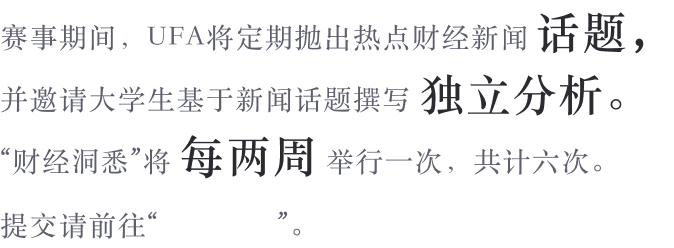
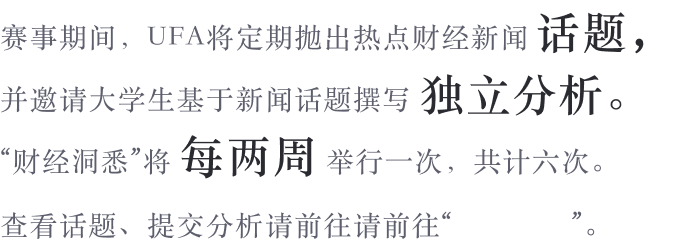
文案调整

Changed region(s): [[0.0, 0.8468, 0.6855, 0.9597], [0.8724, 0.9315, 0.9036, 0.9597], [0.8412, 0.8468, 0.8724, 0.875]]

diff --git a/src/components/Tournament/rules.jsx b/src/components/Tournament/rules.jsx
@@ -4,7 +4,7 @@ import { React, useState, useEffect } from "react";
 import useWindowDimensions from "../../utils/sizewindow";
 import RulesModal from "../screen/modal/RulesModal";
 
-const Rules = ({changeEventKey}) => {
+const Rules = ({ changeEventKey }) => {
   const { width, height } = useWindowDimensions();
   const [current, setCurrent] = useState(0);
   const [showModal, setShowModal] = useState(false);
@@ -24,7 +24,7 @@ const Rules = ({changeEventKey}) => {
       setbodyscrollTop(
         document.documentElement.scrollTop || document.body.scrollTop
       );
-      console.log("屏幕向下距离",bodyscrollrdTop)
+      console.log("屏幕向下距离", bodyscrollrdTop);
     };
 
     window.addEventListener("scroll", handleScroll, { passive: true });
@@ -109,12 +109,12 @@ const Rules = ({changeEventKey}) => {
               <div className="rules-centent">
                 赛事报名成功后，个人/团队参赛者将在“交易平台”获得一份赛事账户，所有操作均在“{" "}
                 <a href="/competition">
-                <span
-                  style={{ color: "blue", cursor: "pointer" }}
-                  className="button-hover"
-                >
-                  交易平台
-                </span>
+                  <span
+                    style={{ color: "blue", cursor: "pointer" }}
+                    className="button-hover"
+                  >
+                    交易平台
+                  </span>
                 </a>
                 ”完成。
               </div>
@@ -156,7 +156,7 @@ const Rules = ({changeEventKey}) => {
           </div>
           <div className="rules-top-30">
             <div className="rules-centent">
-              参赛个人或团队需在赛事期间提交至少3份研报模块，未交满选手则无法获得初赛入围资格。注：研报模块质量不会被进行评分，且不影响综合分数。详情见上方“
+              赛事期间，UFA将定期发布热点财经新闻话题，并邀请大学生撰写话题分析。投稿者有机会获得“杰出财经大学生”奖，以及金融机构推荐资格。详情见上方“
               <span
                 style={{ color: "blue", cursor: "pointer" }}
                 className="button-hover"
@@ -194,18 +194,18 @@ const Rules = ({changeEventKey}) => {
                     <div className="horizontal-line"></div>
                     {/* <div className="vertical-line"></div> */}
                     <div
-                        style={{
-                          display: "flex",
-                          justifyContent: "center",
-                          alignItems: "center",
-                        }}
+                      style={{
+                        display: "flex",
+                        justifyContent: "center",
+                        alignItems: "center",
+                      }}
                     >
                       <div
-                          style={{
-                            height: "48px",
-                            background: "rgb(229, 232, 238)",
-                            width: "1px",
-                          }}
+                        style={{
+                          height: "48px",
+                          background: "rgb(229, 232, 238)",
+                          width: "1px",
+                        }}
                       ></div>
                     </div>
                   </div>
@@ -271,18 +271,18 @@ const Rules = ({changeEventKey}) => {
                     <div className="horizontal-line"></div>
                     {/* <div className="vertical-line"></div> */}
                     <div
-                        style={{
-                          display: "flex",
-                          justifyContent: "center",
-                          alignItems: "center",
-                        }}
+                      style={{
+                        display: "flex",
+                        justifyContent: "center",
+                        alignItems: "center",
+                      }}
                     >
                       <div
-                          style={{
-                            height: "48px",
-                            background: "rgb(229, 232, 238)",
-                            width: "1px",
-                          }}
+                        style={{
+                          height: "48px",
+                          background: "rgb(229, 232, 238)",
+                          width: "1px",
+                        }}
                       ></div>
                     </div>
                   </div>
@@ -342,18 +342,18 @@ const Rules = ({changeEventKey}) => {
                     <div className="horizontal-line"></div>
                     {/* <div className="vertical-line"></div> */}
                     <div
-                        style={{
-                          display: "flex",
-                          justifyContent: "center",
-                          alignItems: "center",
-                        }}
+                      style={{
+                        display: "flex",
+                        justifyContent: "center",
+                        alignItems: "center",
+                      }}
                     >
                       <div
-                          style={{
-                            height: "48px",
-                            background: "rgb(229, 232, 238)",
-                            width: "1px",
-                          }}
+                        style={{
+                          height: "48px",
+                          background: "rgb(229, 232, 238)",
+                          width: "1px",
+                        }}
                       ></div>
                     </div>
                   </div>

diff --git a/src/components/Tournament/finance.jsx b/src/components/Tournament/finance.jsx
@@ -99,7 +99,7 @@ const Finance = ({ profileImg, hobbyImgs }) => {
                       src="/tournament/赛事账户@2x.png"
                       style={{
                         position: "absolute",
-                        left: "44.7%",
+                        left: "65.6%",
                         top: "70%",
                         width: "8%",
                       }}
@@ -118,7 +118,7 @@ const Finance = ({ profileImg, hobbyImgs }) => {
                       src="/tournament/赛事账户-pad@2x.png"
                       style={{
                         position: "absolute",
-                        left: "44.7%",
+                        left: "65.6%",
                         top: "70%",
                         width: "8%",
                       }}
@@ -132,8 +132,8 @@ const Finance = ({ profileImg, hobbyImgs }) => {
                     style={{
                       width: "100%",
                       height: "100%",
-                      maxHeight: "248px",
-                      maxWidth: "674px",
+                      // maxHeight: "248px",
+                      // maxWidth: "674px",
                       minWidth: "337px",
                       minHeight: "124px",
                     }}
@@ -144,7 +144,7 @@ const Finance = ({ profileImg, hobbyImgs }) => {
                       src="/tournament/赛事账户-phone@2x.png"
                       style={{
                         position: "absolute",
-                        left: "24%",
+                        left:  "67%",
                         top: "85%",
                         width: "17%",
                         maxHeight: "27px",
@@ -165,7 +165,7 @@ const Finance = ({ profileImg, hobbyImgs }) => {
                 style={{
                   display: "flex",
                   justifyContent: "center",
-                  flexDirection: width < 791 ? "column" : "inherit",
+                  flexDirection: width < 800 ? "column" : "inherit",
                 }}
               >
                 <div className="finance-date-div-first">
@@ -295,19 +295,19 @@ const Finance = ({ profileImg, hobbyImgs }) => {
                 className="finance-bottom-text"
                 style={{ paddingTop: "30px" }}
               >
-                在每一次财经新闻话题截止后，UFA组委会会阅览并筛选50个优秀的选手分析，并发布由UFA及中信证券官方签署的优秀证书。
+                在每一次财经新闻话题截止后，UFA组委会会阅览并筛选50个优秀分析，并对其作者颁发“杰出财经大学生”的荣誉证书；
               </div>
               <div
                 className="finance-bottom-text"
                 style={{ paddingTop: "20px" }}
               >
-                对于部分优秀分析，UFA会对选手做独家采访，并将其分析及选手采访刊登在UFA官网以及UFA公众号【UFA视野全球】。
+                对于部分优秀分析，UFA会对其作者进行独家采访并刊登在UFA公众号【UFA全球青年汇】。
               </div>
               <div
                 className="finance-bottom-text"
                 style={{ paddingTop: "20px" }}
               >
-                同时，UFA每周会将优秀选手向多个金融机构进行推荐。
+                同时，UFA会将优秀作者向多个金融机构进行推荐。
               </div>
             </div>
 
